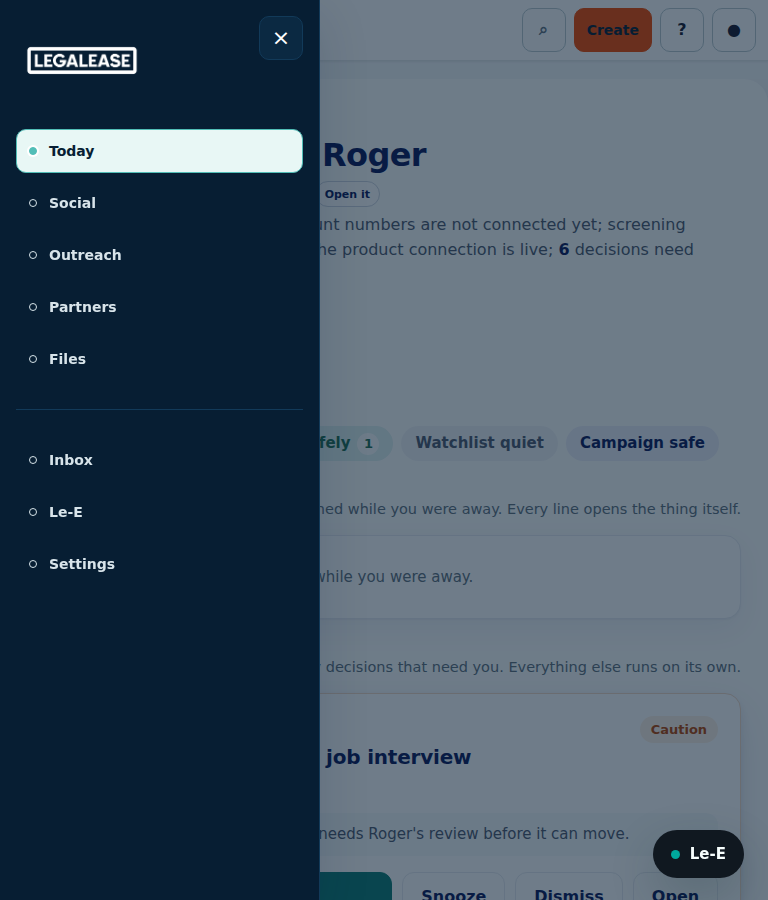
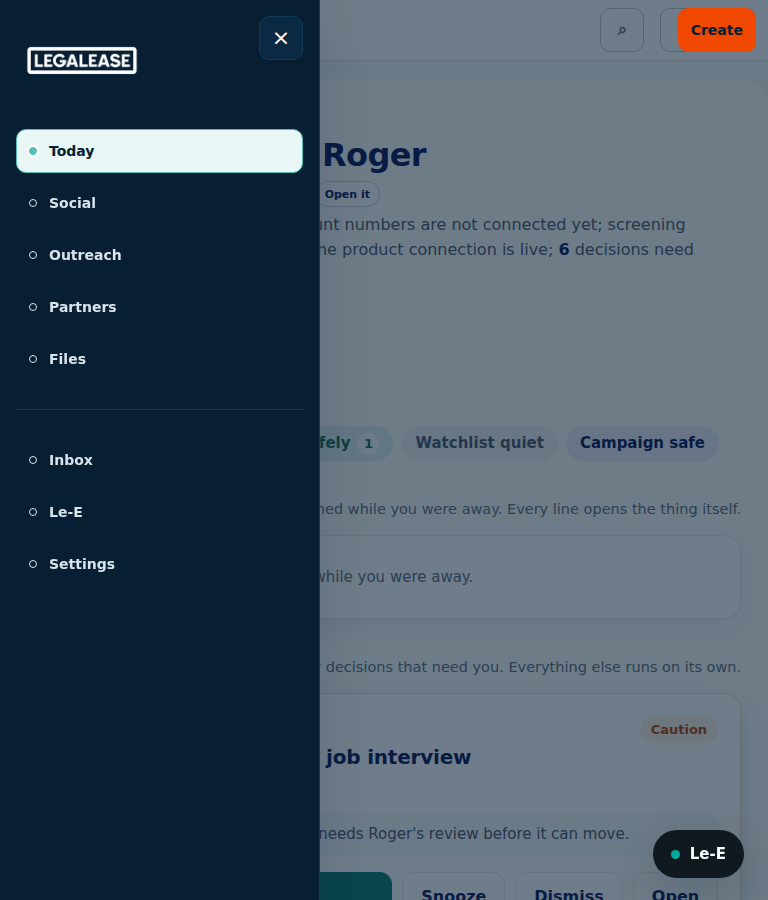
fix(ux-vnext): close global Create acceptance gaps

Changed region(s): [[0.75, 0.0, 1.0, 0.0622]]

diff --git a/assets/ui/desktop-shell.css b/assets/ui/desktop-shell.css
@@ -335,15 +335,24 @@ body.vnext-app-shell {
     display: block;
   }
 
-  .vnext-app-shell.vnext-navigation-open .vnext-shell-stage {
-    pointer-events: none;
+  .vnext-app-shell.vnext-navigation-open .vnext-topbar {
+    position: static;
+    z-index: auto;
+  }
+
+  .vnext-app-shell.vnext-navigation-open .vnext-create-trigger {
+    position: fixed;
+    top: var(--le-space-2);
+    right: var(--le-space-3);
+    z-index: calc(var(--le-z-modal) + 1);
+    pointer-events: auto;
   }
 
   .vnext-app-shell .vnext-sidebar {
     position: fixed;
     inset: 0 auto 0 0;
     z-index: var(--le-z-modal);
-    width: var(--le-sidebar-mobile);
+    width: min(var(--le-sidebar-mobile), calc(100vw - 6rem));
     height: 100dvh;
     padding: var(--le-space-5) var(--le-space-4);
     border-right: 1px solid var(--le-navy-800);

diff --git a/docs/ux-vnext/global-create.md b/docs/ux-vnext/global-create.md
@@ -51,6 +51,10 @@ and endpoints. The orange Create trigger exposes `aria-expanded` and `aria-contr
 and supports mouse, touch, Enter, Space, and Arrow Down. The menu supports Arrow Up,
 Arrow Down, Home, End, Enter, Space, Escape, outside-click dismissal, and focus return.
 The responsive navigation drawer is closed before Global Create opens.
+While that drawer is open, its background controls and routed content remain inert,
+but the single persistent orange Create trigger stays operable. Activating it clears
+the drawer overlay, inert state, and navigation scroll lock before the shared Create
+menu or sheet opens; no second trigger, menu, or modal is rendered.
 
 Selection opens one labelled modal creation workspace. Desktop presents it as a
 focused side sheet; mobile uses the same sheet at full viewport width. Focus moves to
@@ -92,7 +96,9 @@ Creation does not touch `reactivationCampaign`, release a batch, or send email.
 Organization name is required. Partner type, contact name/email, geography, and first
 next action are optional. Email is validated only when present. The existing partner
 lifecycle normalizer preserves detailed internal fields while the founder-facing
-stage starts at New. Creation does not qualify the record, send email, schedule a
+stage starts at New. Choosing **Not selected** leaves both Partner type fields omitted;
+it does not invent `nonprofit` or any other type. Explicit supported selections are
+preserved unchanged. Creation does not qualify the record, send email, schedule a
 meeting, create a Campaign or proposal, or activate a Partner page.
 
 ### File or folder
@@ -121,7 +127,9 @@ The browser creates one validated `creationRequestId` per fresh form. The servic
 derives the record's stable collision-safe ID from it without exposing a separate
 request-token field. A repeat of the same request returns the original record
 with `alreadyExisted: true`; it does not overwrite it, append duplicate audit evidence,
-or create another record. Authorization and validation still run on every request.
+or create another record. The form also locks immediately on submission, so a literal
+rapid double-click produces one accepted activation and one record/evidence pair.
+Authorization and validation still run on every request.
 
 Server validation trims required values; enforces length limits, enum membership,
 optional email syntax, HTTPS-only safe source links, request-ID shape, and request-size

diff --git a/docs/ux-vnext/responsive-shell.md b/docs/ux-vnext/responsive-shell.md
@@ -43,6 +43,10 @@ campaign**, **Partner**, **File or folder**, and **Quick note**. Task remains in
 and Tasks rather than the global menu. The shared mobile creation sheet closes the
 navigation drawer first, stays inside the viewport, contains focus, supports dirty
 close confirmation, and preserves Escape, outside-click, and focus-return behavior.
+The drawer keeps routed content and non-Create top-bar controls inert while leaving
+the single persistent orange Create trigger operable. Activating it removes the
+drawer overlay, inert state, and drawer scroll lock before opening the shared Create
+surface, so the two modal layers never overlap.
 Persistent folders remain truthfully disabled because the current Files system has no
 folder model.
 